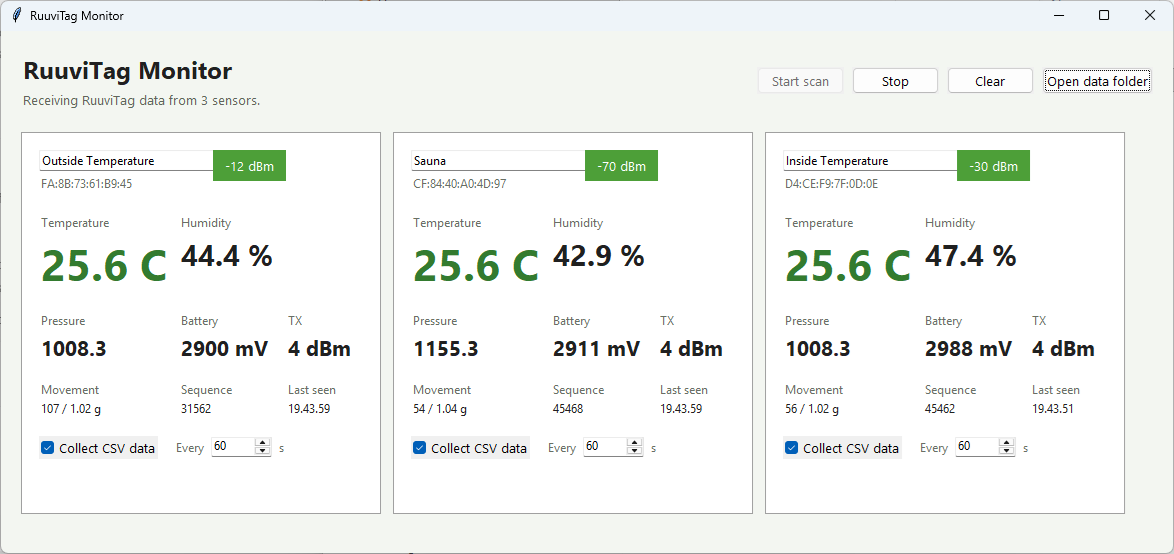
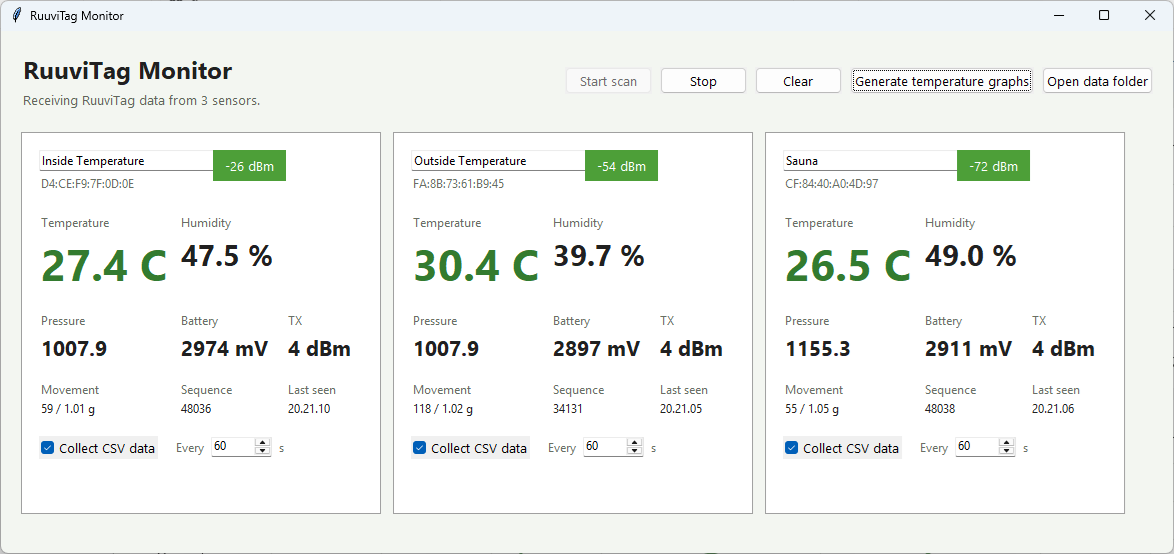
Add temperature history graphs

diff --git a/ruuvitag_monitor/app.py b/ruuvitag_monitor/app.py
@@ -27,8 +27,8 @@ CARD_HEIGHT = 382
 CARD_GAP = 12
 WINDOW_CHROME_X = 56
 WINDOW_CHROME_Y = 128
-EMPTY_SIZE = (680, 400)
-MIN_SIZE = (500, 400)
+EMPTY_SIZE = (800, 400)
+MIN_SIZE = (760, 400)
 MAX_COLUMNS = 3
 
 
@@ -82,6 +82,14 @@ class RuuviReading:
     @property
     def last_seen_text(self) -> str:
         return self.last_seen.strftime("%H.%M.%S")
+
+
+@dataclass
+class TemperatureSeries:
+    mac_address: str
+    display_name: str
+    timestamps: list[datetime]
+    temperatures_c: list[float]
 
 
 def settings_path() -> Path:
@@ -229,6 +237,42 @@ def append_reading_csv(reading: RuuviReading, display_name: str, path: Path) -> 
             }
         )
     return path
+
+
+def load_temperature_history(path: Path) -> list[TemperatureSeries]:
+    points_by_tag: dict[str, list[tuple[datetime, float, str]]] = {}
+    if not path.exists():
+        return []
+
+    for csv_path in sorted(path.glob("*.csv")):
+        try:
+            with csv_path.open(encoding="utf-8-sig", newline="") as csv_file:
+                for row in csv.DictReader(csv_file):
+                    try:
+                        timestamp = datetime.fromisoformat(row.get("timestamp", ""))
+                        temperature = float(row.get("temperature_c", ""))
+                    except (TypeError, ValueError):
+                        continue
+                    if not math.isfinite(temperature):
+                        continue
+                    mac_address = (row.get("mac_address") or csv_path.stem).strip().upper()
+                    display_name = (row.get("name") or mac_address).strip()
+                    points_by_tag.setdefault(mac_address, []).append((timestamp, temperature, display_name))
+        except (OSError, csv.Error, UnicodeError):
+            continue
+
+    series: list[TemperatureSeries] = []
+    for mac_address, points in points_by_tag.items():
+        points.sort(key=lambda point: point[0].timestamp())
+        series.append(
+            TemperatureSeries(
+                mac_address=mac_address,
+                display_name=points[-1][2],
+                timestamps=[point[0] for point in points],
+                temperatures_c=[point[1] for point in points],
+            )
+        )
+    return sorted(series, key=lambda item: item.display_name.casefold())
 
 
 def read_i16(data: bytes, offset: int) -> int:
@@ -493,6 +537,9 @@ class RuuviTagMonitorApp(tk.Tk):
         self.stop_button = ttk.Button(button_area, text="Stop", command=self.stop_scan, state="disabled")
         self.stop_button.pack(side="left", padx=(0, 8))
         ttk.Button(button_area, text="Clear", command=self.clear_tags).pack(side="left")
+        ttk.Button(button_area, text="Generate temperature graphs", command=self.show_temperature_graphs).pack(
+            side="left", padx=(8, 0)
+        )
         ttk.Button(button_area, text="Open data folder", command=self.open_data_folder).pack(side="left", padx=(8, 0))
 
         self.cards_frame = ttk.Frame(root, style="Cards.TFrame")
@@ -584,6 +631,80 @@ class RuuviTagMonitorApp(tk.Tk):
             os.startfile(path)  # type: ignore[attr-defined]
         except OSError as exc:
             messagebox.showerror(APP_NAME, f"Could not open the data folder:\n{exc}")
+
+    def show_temperature_graphs(self) -> None:
+        series = load_temperature_history(data_directory())
+        if not series:
+            messagebox.showinfo(
+                APP_NAME,
+                "No valid temperature readings were found in the data folder.",
+                parent=self,
+            )
+            return
+
+        try:
+            from matplotlib.backends.backend_tkagg import FigureCanvasTkAgg
+            from matplotlib.dates import AutoDateLocator, ConciseDateFormatter
+            from matplotlib.figure import Figure
+        except ImportError:
+            messagebox.showerror(
+                APP_NAME,
+                "Temperature graphs require matplotlib. Run: pip install -r requirements.txt",
+                parent=self,
+            )
+            return
+
+        window = tk.Toplevel(self)
+        window.title("RuuviTag Temperature Graphs")
+        window.configure(bg="#f3f6f1")
+        window.minsize(700, 500)
+        width = min(1100, self.winfo_screenwidth() - 100)
+        height = min(850, self.winfo_screenheight() - 100)
+        window.geometry(f"{width}x{height}")
+
+        container = ttk.Frame(window, style="Root.TFrame", padding=(16, 16, 16, 8))
+        container.pack(fill="both", expand=True)
+        chart_area = tk.Canvas(container, background="#ffffff", highlightthickness=0)
+        scrollbar = ttk.Scrollbar(container, orient="vertical", command=chart_area.yview)
+        chart_area.configure(yscrollcommand=scrollbar.set)
+        scrollbar.pack(side="right", fill="y")
+        chart_area.pack(side="left", fill="both", expand=True)
+
+        charts = ttk.Frame(chart_area)
+        chart_window = chart_area.create_window((0, 0), window=charts, anchor="nw")
+        charts.bind("<Configure>", lambda _event: chart_area.configure(scrollregion=chart_area.bbox("all")))
+        chart_area.bind("<Configure>", lambda event: chart_area.itemconfigure(chart_window, width=event.width))
+
+        figures: list[Figure] = []
+        for item in series:
+            figure = Figure(figsize=(9.5, 2.8), dpi=100, facecolor="#ffffff")
+            axis = figure.add_subplot(111)
+            axis.plot(item.timestamps, item.temperatures_c, color="#337b2f", linewidth=2)
+            axis.set_title(f"{item.display_name}  ({item.mac_address})", loc="left", fontsize=11, fontweight="bold")
+            axis.set_ylabel("Temperature (°C)")
+            axis.set_xlabel("Time")
+            axis.grid(True, color="#dfe5dc", linewidth=0.8)
+            locator = AutoDateLocator()
+            axis.xaxis.set_major_locator(locator)
+            axis.xaxis.set_major_formatter(ConciseDateFormatter(locator))
+            figure.tight_layout(pad=1.2)
+            figure_canvas = FigureCanvasTkAgg(figure, master=charts)
+            figure_canvas.draw()
+            figure_canvas.get_tk_widget().pack(fill="x", expand=True, pady=(0, 12))
+            figures.append(figure)
+
+        footer = ttk.Frame(window, style="Root.TFrame", padding=(16, 8, 16, 16))
+        footer.pack(fill="x")
+
+        def close_window() -> None:
+            for figure in figures:
+                figure.clear()
+            window.destroy()
+
+        ttk.Button(footer, text="Close", command=close_window).pack(side="right")
+        window.protocol("WM_DELETE_WINDOW", close_window)
+        window.transient(self)
+        window.focus_set()
 
     def _capture_reading_if_due(self, reading: RuuviReading) -> None:
         config = self.logging_config_for(reading.mac_address)

diff --git a/tests/test_temperature_history.py b/tests/test_temperature_history.py
@@ -1,0 +1,88 @@
+import csv
+import tempfile
+import unittest
+from pathlib import Path
+
+from ruuvitag_monitor.app import CSV_FIELDS, load_temperature_history
+
+
+class TemperatureHistoryTests(unittest.TestCase):
+    def setUp(self) -> None:
+        self.temp_dir = tempfile.TemporaryDirectory()
+        self.data_dir = Path(self.temp_dir.name)
+
+    def tearDown(self) -> None:
+        self.temp_dir.cleanup()
+
+    def test_combines_capture_files_by_mac_and_sorts_by_time(self) -> None:
+        self._write_csv(
+            "Kitchen_2.csv",
+            [self._row("2026-07-12T12:00:00+03:00", "22.5", "AA:BB:CC:DD:EE:01", "Kitchen")],
+        )
+        self._write_csv(
+            "Kitchen_1.csv",
+            [self._row("2026-07-12T10:00:00+03:00", "20.5", "AA:BB:CC:DD:EE:01", "Kitchen")],
+        )
+
+        history = load_temperature_history(self.data_dir)
+
+        self.assertEqual(len(history), 1)
+        self.assertEqual(history[0].display_name, "Kitchen")
+        self.assertEqual(history[0].temperatures_c, [20.5, 22.5])
+        self.assertEqual([timestamp.hour for timestamp in history[0].timestamps], [10, 12])
+
+    def test_returns_a_separate_series_for_each_tag(self) -> None:
+        self._write_csv(
+            "tags.csv",
+            [
+                self._row("2026-07-12T10:00:00+03:00", "20", "AA:01", "Kitchen"),
+                self._row("2026-07-12T10:00:00+03:00", "80", "AA:02", "Sauna"),
+            ],
+        )
+
+        history = load_temperature_history(self.data_dir)
+
+        self.assertEqual([item.display_name for item in history], ["Kitchen", "Sauna"])
+
+    def test_skips_invalid_rows_and_unreadable_csv_content(self) -> None:
+        self._write_csv(
+            "mixed.csv",
+            [
+                self._row("not-a-date", "20", "AA:01", "Kitchen"),
+                self._row("2026-07-12T10:00:00+03:00", "not-a-number", "AA:01", "Kitchen"),
+                self._row("2026-07-12T11:00:00+03:00", "21.25", "AA:01", "Kitchen"),
+            ],
+        )
+        (self.data_dir / "broken.csv").write_bytes(b"\xff\xfe\x00")
+
+        history = load_temperature_history(self.data_dir)
+
+        self.assertEqual(len(history), 1)
+        self.assertEqual(history[0].temperatures_c, [21.25])
+
+    def _write_csv(self, file_name: str, rows: list[dict[str, object]]) -> None:
+        with (self.data_dir / file_name).open("w", encoding="utf-8", newline="") as csv_file:
+            writer = csv.DictWriter(csv_file, fieldnames=CSV_FIELDS)
+            writer.writeheader()
+            writer.writerows(rows)
+
+    @staticmethod
+    def _row(timestamp: str, temperature: str, mac_address: str, name: str) -> dict[str, object]:
+        return {
+            "timestamp": timestamp,
+            "mac_address": mac_address,
+            "name": name,
+            "temperature_c": temperature,
+            "humidity_percent": "45",
+            "pressure_hpa": "1000",
+            "acceleration_g": "1",
+            "battery_mv": "2900",
+            "tx_power_dbm": "4",
+            "movement_counter": "1",
+            "measurement_sequence": "2",
+            "rssi_dbm": "-60",
+        }
+
+
+if __name__ == "__main__":
+    unittest.main()

diff --git a/README.md b/README.md
@@ -4,6 +4,8 @@ Python/Tkinter MS Windows desktop app for discovering nearby RuuviTag BLE advert
 
 ![RuuviTag Monitor screenshot](docs/ruuvitag-monitor.png)
 
+*Live BLE readings with independent CSV collection controls for each discovered tag.*
+
 ## Hardware Requirements
 
 - Windows PC with a Bluetooth adapter that supports Bluetooth Low Energy (BLE).
@@ -39,6 +41,7 @@ python -m venv .venv
 - Set each tag's capture interval from 1 to 86,400 seconds; collection settings persist between runs.
 - Name each CSV from the user-defined tag name and capture-start date, such as `Kitchen_2026-07-10.csv`.
 - Store the CSV files under `%LOCALAPPDATA%\RuuviTagMonitor\data`.
+- Generate scrollable temperature-over-time graphs for every tag represented in the data folder.
 
 ## CSV Data Collection
 
@@ -50,6 +53,14 @@ python -m venv .venv
 Each collection session keeps the tag name it had when capture began. The filename combines that name with the start date, for example `Sauna_2026-07-10.csv`. Starting another same-name session on the same date adds a numeric suffix, such as `Sauna_2026-07-10_2.csv`.
 
 Each row contains the timestamp, MAC address, tag name, temperature, humidity, pressure, acceleration, battery voltage, TX power, movement counter, measurement sequence, and RSSI. Collection choices and intervals are restored when the application starts again.
+
+## Temperature Graphs
+
+Select **Generate temperature graphs** to read all CSV files from the data folder. Readings from separate capture sessions are combined by tag, ordered by timestamp, and shown in a new scrollable window with one temperature-over-time graph per tag. Select **Close** to close the graph window.
+
+![RuuviTag temperature graphs](docs/ruuvitag-temperature-graphs.png)
+
+*Temperature history generated from the available CSV data for each tag.*
 
 ## Shortcuts
 

diff --git a/AGENTS.md b/AGENTS.md
@@ -16,6 +16,8 @@ Python/Tkinter desktop app for discovering nearby RuuviTag BLE advertisements an
 - Each tag can independently log readings to its own CSV file at a configurable capture interval.
 - Data collection settings persist by MAC address in `%LOCALAPPDATA%\RuuviTagMonitor\data-collection.json`; CSV files use the user-defined tag name and capture-start date and are stored in the adjacent `data` folder.
 - A capture session keeps its initial filename across app restarts. Disabling and re-enabling collection starts a new file, with a numeric suffix when the same tag name and date already exist.
+- The Generate temperature graphs command combines valid CSV readings by MAC address and opens a scrollable window containing one temperature-over-time graph per tag.
+- README screenshots are stored at `docs\ruuvitag-monitor.png` for the live monitor and `docs\ruuvitag-temperature-graphs.png` for the graph window.
 
 ## Build And Run
 
@@ -30,7 +32,7 @@ Install dependencies with `.\.venv\Scripts\python.exe -m pip install -r requirem
 
 Use `.\build_exe.ps1` to build a PyInstaller executable at `dist\RuuviTagMonitor.exe`.
 
-- Last verified PyInstaller build size: about 14.5 MB.
+- Last verified PyInstaller build size: about 42.2 MB (includes Matplotlib and its plotting dependencies).
 - Verified launch path: `C:\Coding\RuuviTagMonitor\dist\RuuviTagMonitor.exe`.
 
 ## Notes
@@ -38,4 +40,4 @@ Use `.\build_exe.ps1` to build a PyInstaller executable at `dist\RuuviTagMonitor
 - The local PC Bluetooth adapter was confirmed to receive RuuviTag packets after installing the Realtek Bluetooth driver.
 - This project is intentionally Python-first for smaller/familiar local build-and-run loops.
 - Previous WinUI/.NET implementation files were removed; the repository now contains only the Python app path.
-- Future useful steps: add simple history charts and alert thresholds.
+- Future useful step: add alert thresholds.